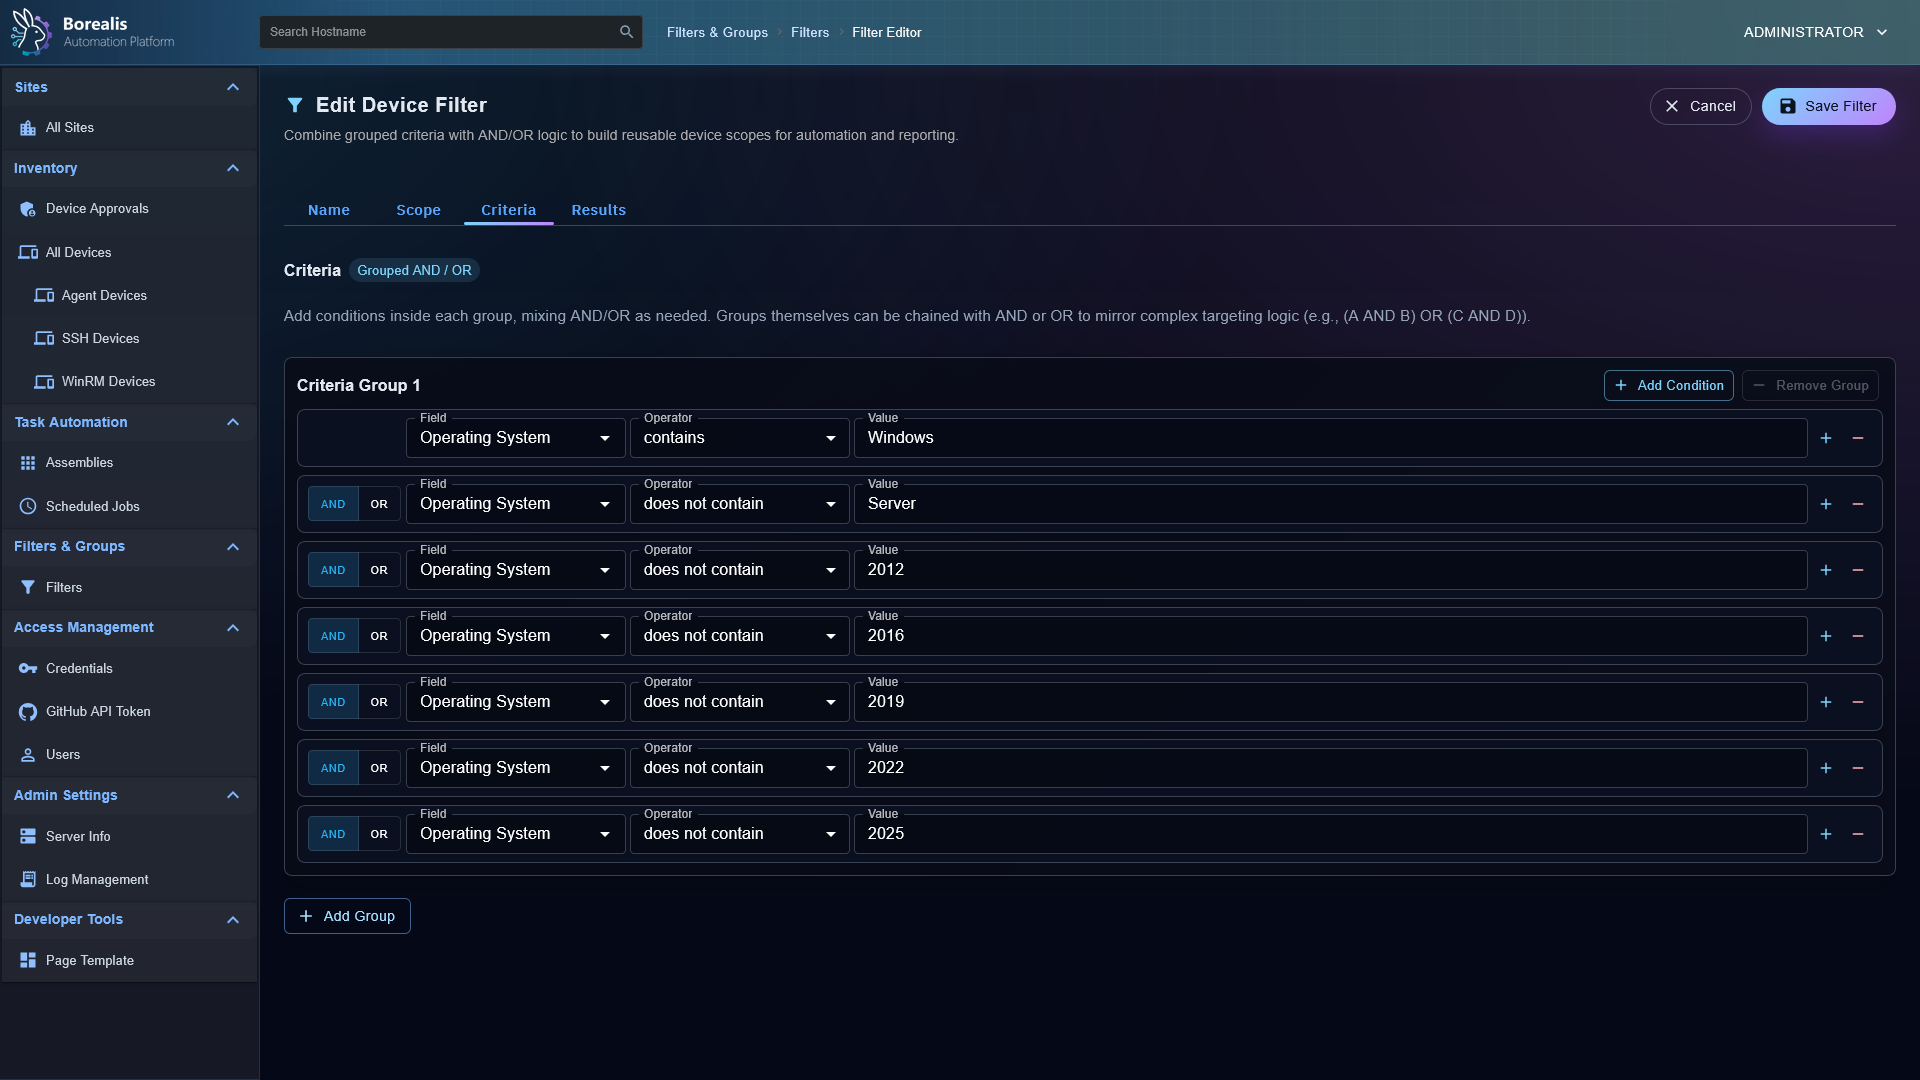
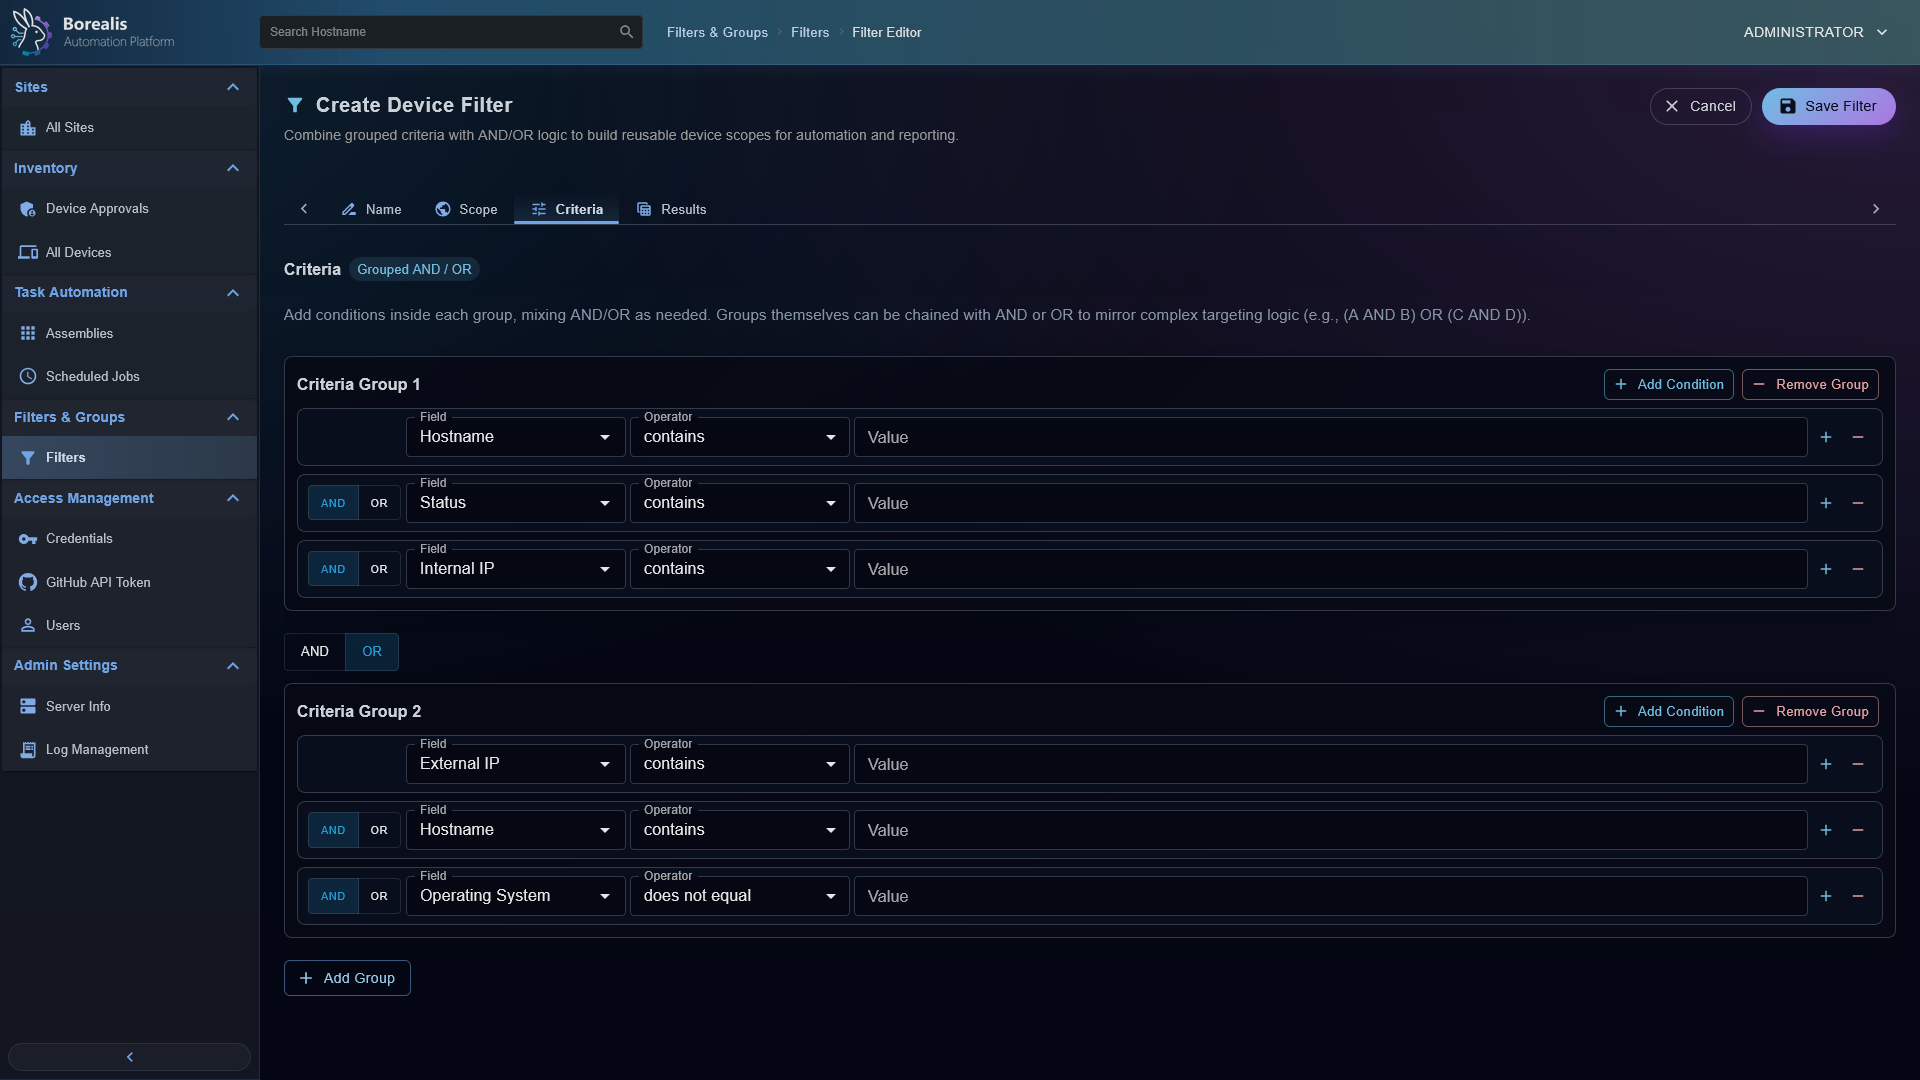
Updated Screenshots & Added New Job Editor Screenshot

diff --git a/readme.md b/readme.md
@@ -65,6 +65,9 @@ Log Management (Raw):
 Scheduled Job List:
 ![Scheduled Job List](Docs/images/repo_screenshots/Scheduled_Job_List.png)
 
+Scheduled Job Editor:
+![Scheduled Job List](Docs/images/repo_screenshots/Scheduled_Job_Editor.png)
+
 Scheduled Job History:
 ![Scheduled Job History](Docs/images/repo_screenshots/Scheduled_Job_History.png)
 
